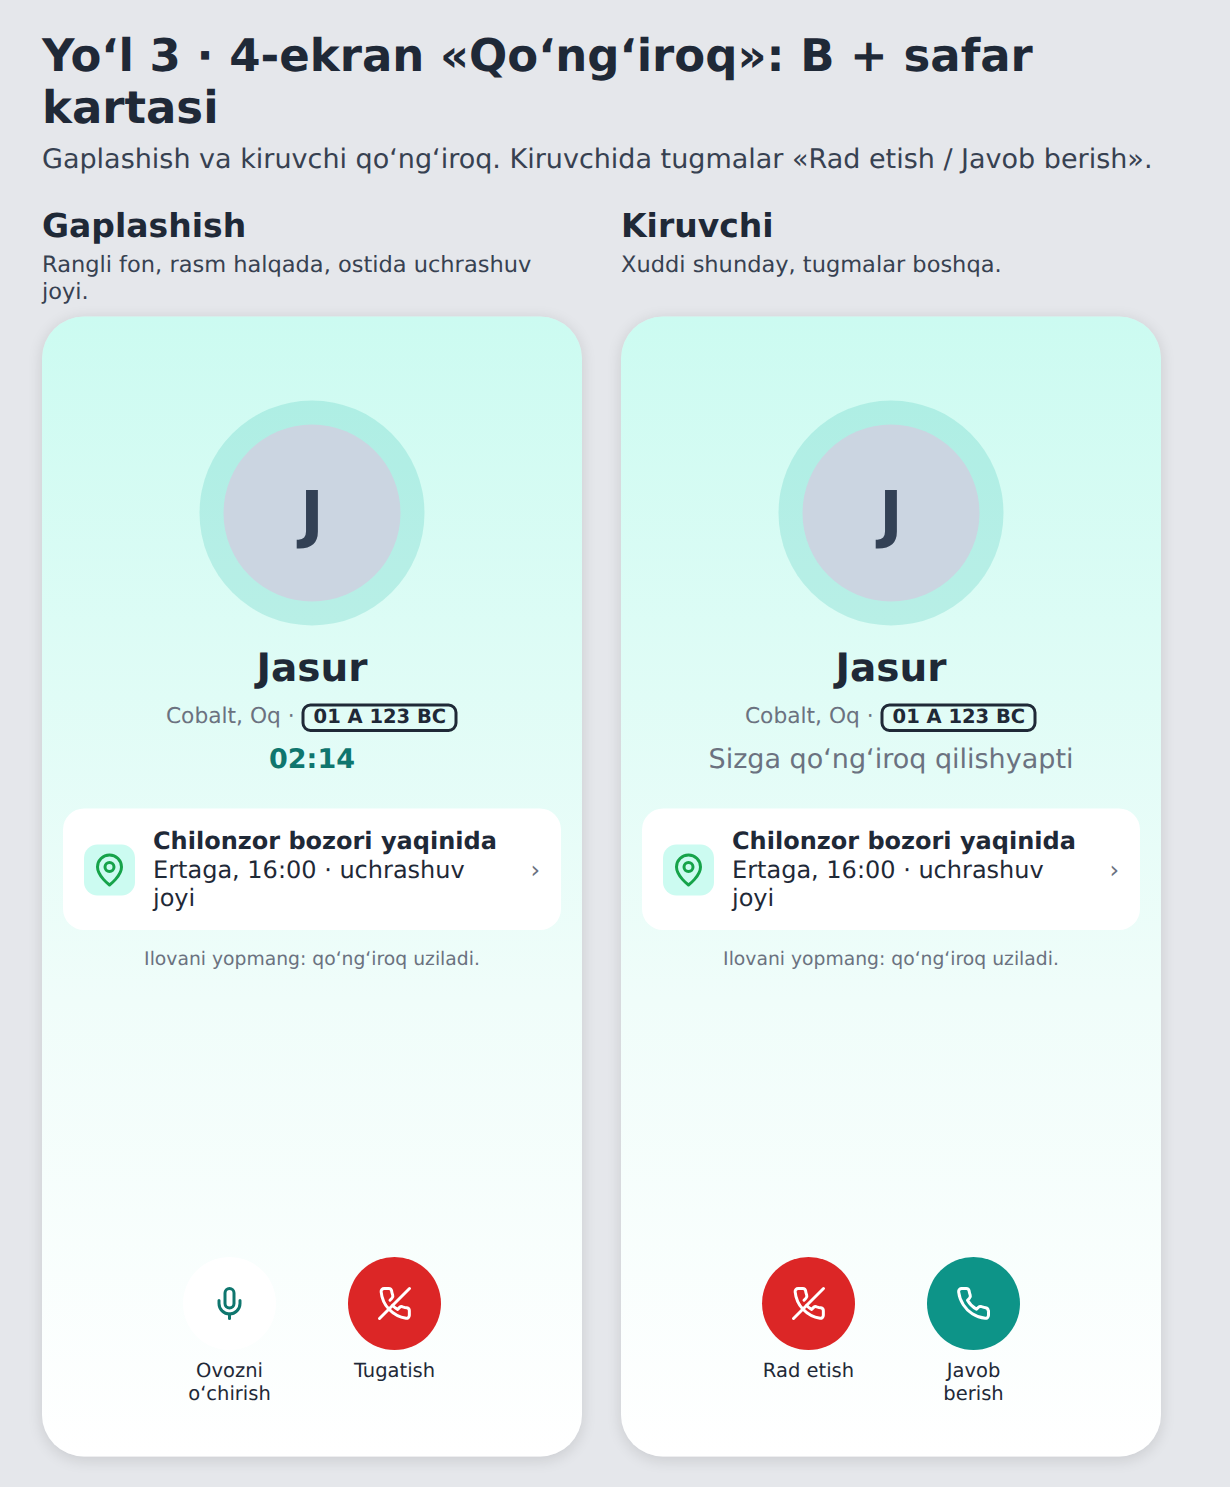
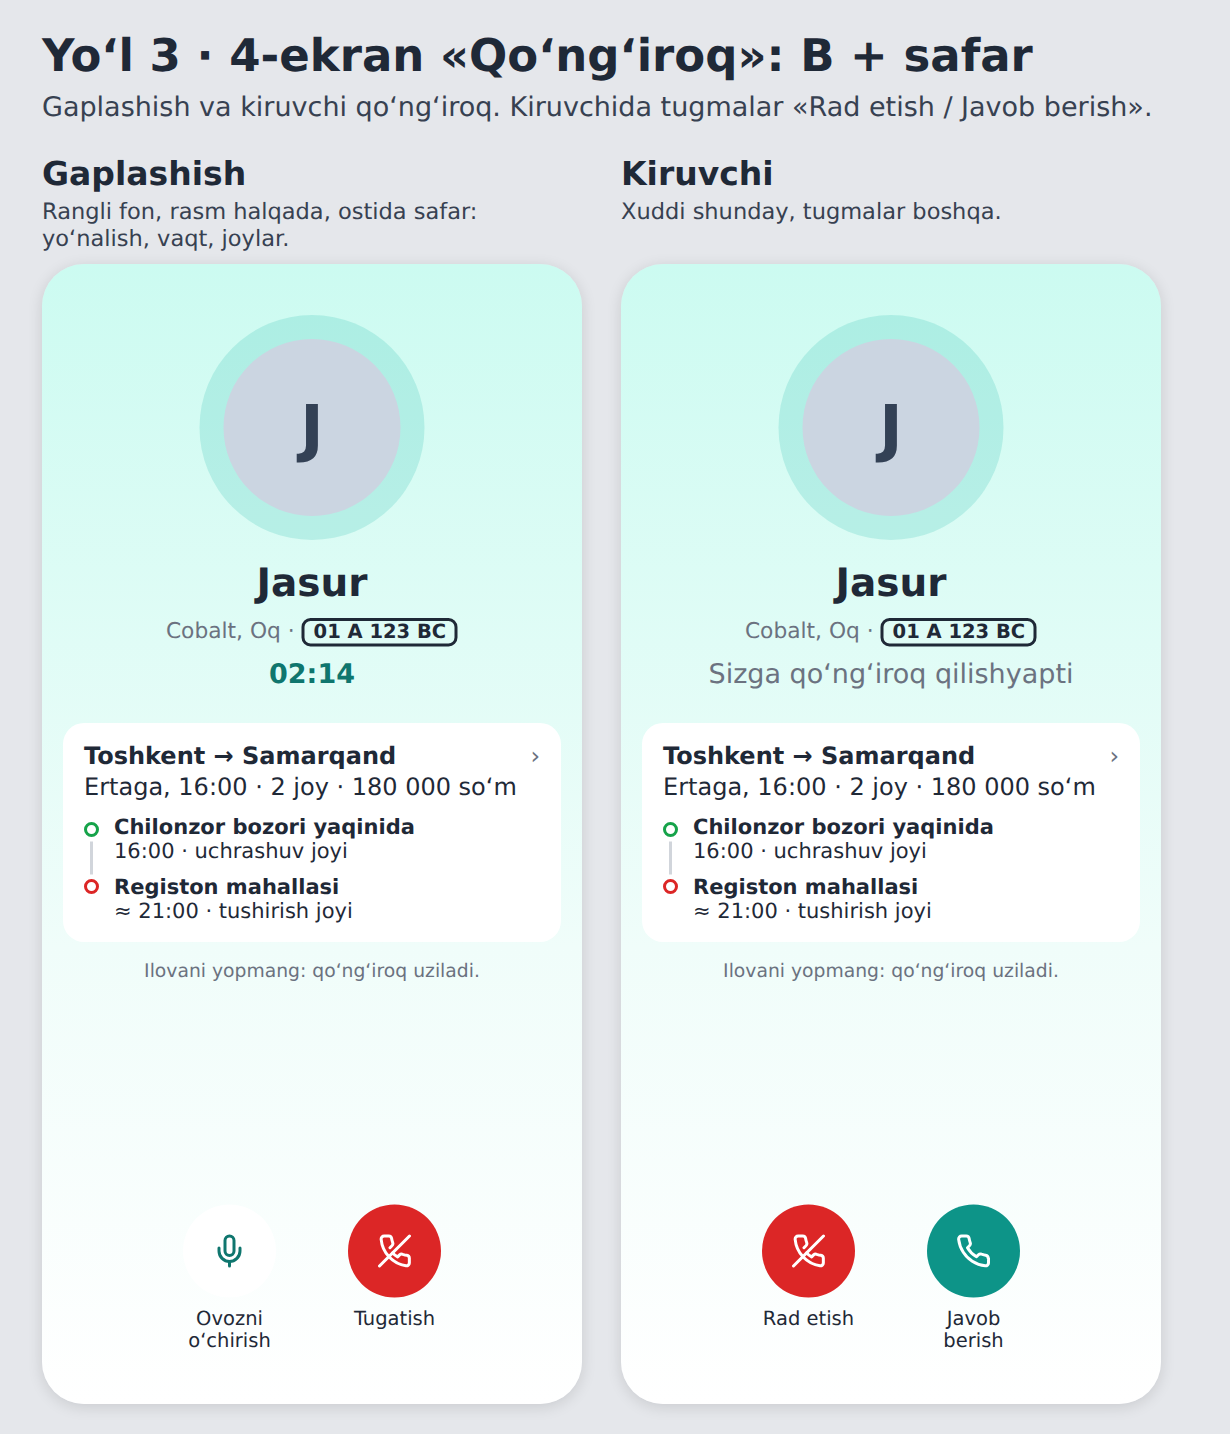
docs(118): call screen shows the full trip card
Claude-Session: https://claude.ai/code/session_017FSsNw3bjZgBbKY1ueaesh

diff --git a/docs/118-registration-redesign.md b/docs/118-registration-redesign.md
@@ -67,4 +67,4 @@
 - Три кнопки в ряд: «Xabar yozish», «Qoʻngʻiroq», «Yaqinlarimga». Главная кнопка одна и меняется по ходу поездки: «Mashinaga chiqdim», потом «Yetib keldim». «Shikoyat» и «Joyni bekor qilish» мелкими ссылками над ней.
 - Чат (макет `goals/g60/2-chat.png`): вариант A. Сверху фото, имя, машина и номер, кнопка звонка; под ними строка поездки (день, время, место посадки), касание открывает бронь. Внизу готовые ответы «Yoʻldaman», «5 daqiqada chiqaman», «Qayerdasiz?» (новая функция). Про скрытые номера: серая строка с замком вместо красного текста.
 - Экран близких «Madinaning safari» (макет `goals/g60/3-follow.png`): вариант A. Сверху крупно состояние: «Madina yoʻlda», «Samarqandga ≈ 03:25 da yetadi», полоска из 3 шагов. Ниже водитель с номером, «Uchrashuv joyi» и «Tushirish joyi» открывают карту. Кнопка «Xabar olish», ссылка «Men ham yoʻlga chiqaman». Номера телефонов не видны (`07`, `43`).
-- Звонок (макет `goals/g60/4-call.png`): вариант B и карточка места встречи. Мягкий бирюзовый фон, фото в кольце, имя, машина и номер, время; ниже «Chilonzor bozori yaqinida, ertaga 16:00» (касание открывает бронь). Одна строка «Ilovani yopmang», строка про наушники убрана. Кнопки: «Ovozni oʻchirish», «Tugatish»; входящий: «Rad etish», «Javob berish».
+- Звонок (макет `goals/g60/4-call.png`): вариант B и карточка поездки. Мягкий бирюзовый фон, фото в кольце, имя, машина и номер, время; ниже карточка поездки: направление, день и время, места и сумма, место посадки и высадки со временем (касание открывает бронь). Одна строка «Ilovani yopmang», строка про наушники убрана. Кнопки: «Ovozni oʻchirish», «Tugatish»; входящий: «Rad etish», «Javob berish».
